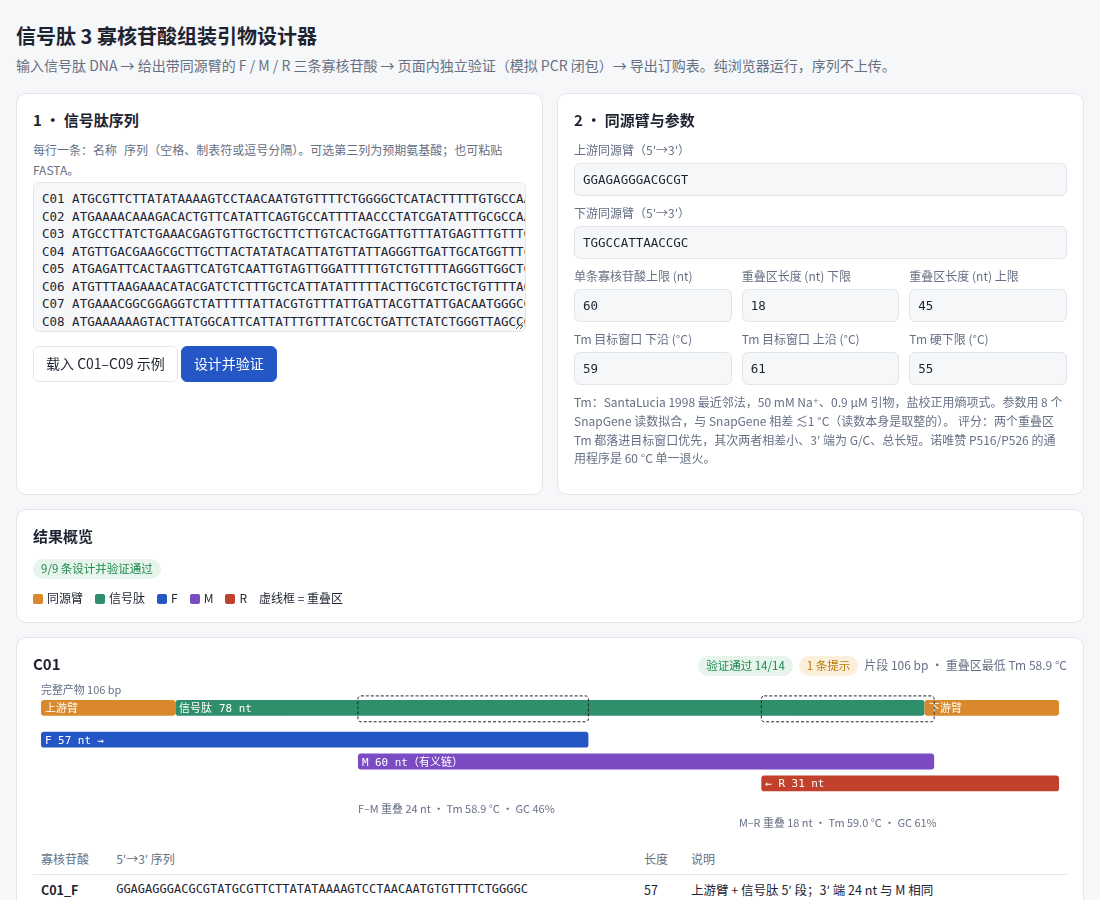
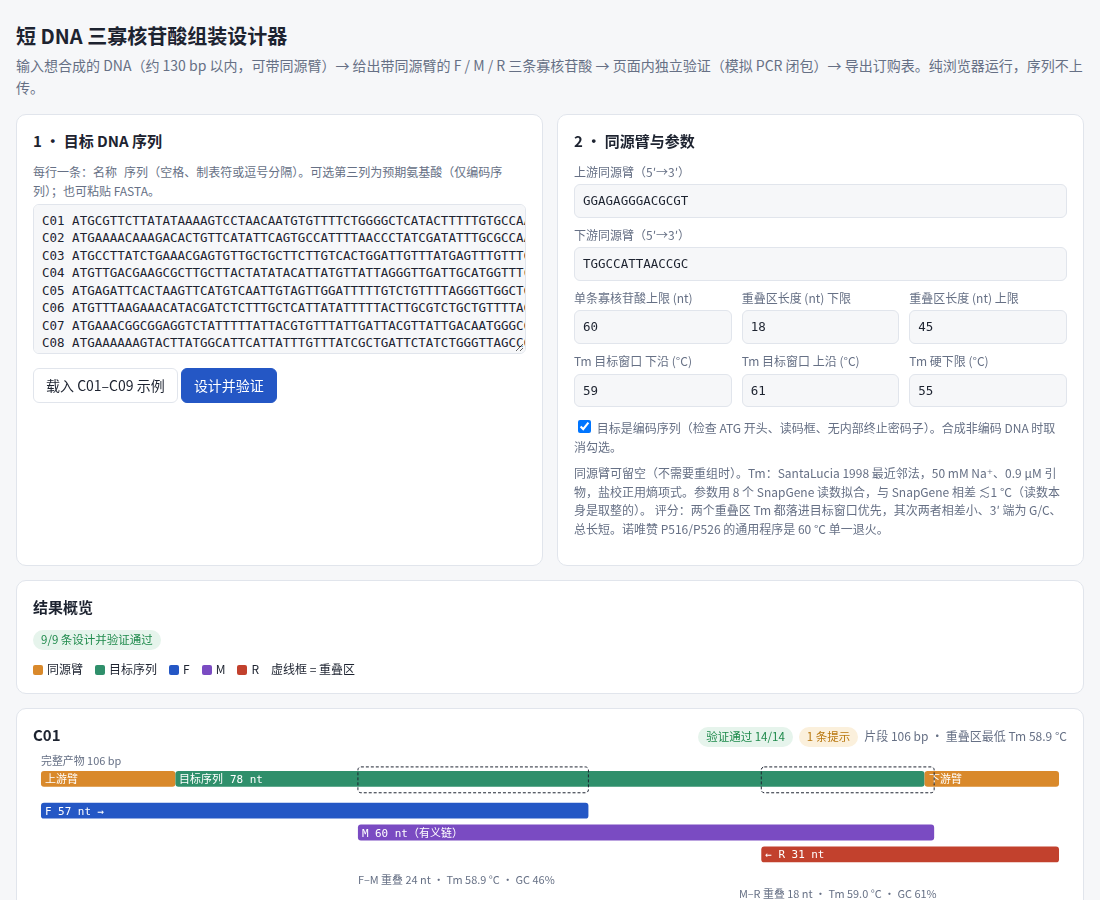
General short-DNA mode, README rewrite, assembly diagram
- optional coding-sequence checks; homology arms may be empty
- 9 new tests (random non-coding DNA 60-130 bp, mutation tests)
- README rewritten around the goal; SVG diagram; live Pages link

diff --git a/index.html b/index.html
@@ -3,7 +3,7 @@
 <head>
 <meta charset="UTF-8">
 <meta name="viewport" content="width=device-width,initial-scale=1">
-<title>信号肽 3 寡核苷酸组装引物设计器</title>
+<title>短 DNA 三寡核苷酸组装设计器</title>
 <style>
 :root{--bg:#f6f7f9;--card:#fff;--ink:#1d2330;--muted:#667085;--line:#e1e5ec;--acc:#2457c5;
 --arm:#d9892b;--sp:#2f8f6b;--F:#2457c5;--M:#7a4bc2;--R:#c2412d;--ok:#1f8a4c;--warn:#b9770e;--bad:#c2312d;--okbg:#e6f4ec;--warnbg:#fbf0dc;--badbg:#fbe4e2}
@@ -48,13 +48,13 @@ pre{background:var(--bg);border:1px solid var(--line);border-radius:6px;padding:
 </head>
 <body>
 <div class="wrap">
-<h1>信号肽 3 寡核苷酸组装引物设计器</h1>
-<p class="sub">输入信号肽 DNA → 给出带同源臂的 F / M / R 三条寡核苷酸 → 页面内独立验证（模拟 PCR 闭包）→ 导出订购表。纯浏览器运行，序列不上传。</p>
+<h1>短 DNA 三寡核苷酸组装设计器</h1>
+<p class="sub">输入想合成的 DNA（约 130 bp 以内，可带同源臂）→ 给出带同源臂的 F / M / R 三条寡核苷酸 → 页面内独立验证（模拟 PCR 闭包）→ 导出订购表。纯浏览器运行，序列不上传。</p>
 
 <div class="grid">
 <div class="card">
-  <h2>1 · 信号肽序列</h2>
-  <label>每行一条：<span class="mono">名称 序列</span>（空格、制表符或逗号分隔）。可选第三列为预期氨基酸；也可粘贴 FASTA。</label>
+  <h2>1 · 目标 DNA 序列</h2>
+  <label>每行一条：<span class="mono">名称 序列</span>（空格、制表符或逗号分隔）。可选第三列为预期氨基酸（仅编码序列）；也可粘贴 FASTA。</label>
   <textarea id="input" spellcheck="false" wrap="off"></textarea>
   <div style="margin-top:8px"><button onclick="loadExample()">载入 C01–C09 示例</button> <button class="primary" onclick="run()">设计并验证</button></div>
 </div>
@@ -72,7 +72,8 @@ pre{background:var(--bg);border:1px solid var(--line);border-radius:6px;padding:
     <div><label>Tm 目标窗口 上沿 (°C)</label><input type="number" id="tmHigh" value="61" step="0.5"></div>
     <div><label>Tm 硬下限 (°C)</label><input type="number" id="tmFloor" value="55" step="0.5"></div>
   </div>
-  <p class="note" style="margin-top:8px">Tm：SantaLucia 1998 最近邻法，50 mM Na⁺、0.9 µM 引物，盐校正用熵项式。参数用 8 个 SnapGene 读数拟合，与 SnapGene 相差 ≲1 °C（读数本身是取整的）。
+  <label style="margin-top:10px"><input type="checkbox" id="orf" checked> 目标是编码序列（检查 ATG 开头、读码框、无内部终止密码子）。合成非编码 DNA 时取消勾选。</label>
+  <p class="note" style="margin-top:8px">同源臂可留空（不需要重组时）。Tm：SantaLucia 1998 最近邻法，50 mM Na⁺、0.9 µM 引物，盐校正用熵项式。参数用 8 个 SnapGene 读数拟合，与 SnapGene 相差 ≲1 °C（读数本身是取整的）。
   评分：两个重叠区 Tm 都落进目标窗口优先，其次两者相差小、3′ 端为 G/C、总长短。诺唯赞 P516/P526 的通用程序是 60 °C 单一退火。</p>
 </div>
 </div>
@@ -176,14 +177,17 @@ function verify(spec){
   const off=[...pool].filter(s=>!T.includes(s)&&!rT.includes(s));
   add('offtarget',off.length===0,off.length?`出现 ${off.length} 条不属于目标产物的链（疑似错配引发）`:'所有中间产物都是目标产物的子序列，无错配产物');
   add('arms',T.startsWith(up)&&T.endsWith(down),'产物首尾分别是上游臂与下游臂');
-  add('spmid',T.slice(up.length,T.length-down.length)===sp,'两臂之间的序列与输入的信号肽 DNA 完全一致');
+  add('spmid',T.slice(up.length,T.length-down.length)===sp,'两臂之间的序列与输入的目标 DNA 完全一致');
   add('startF',F===T.slice(0,F.length),'F 是产物上链的前缀');
   add('startR',R===rT.slice(0,R.length),'R 是产物下链的前缀');
-  const aa=translate(sp);
-  add('atg',sp.startsWith('ATG'),'信号肽以 ATG 开头');
-  add('frame',sp.length%3===0,`信号肽长度 ${sp.length} nt 是 3 的倍数`);
-  add('stop',!aa.slice(0,-1).includes('*')&&!aa.includes('?'),'没有内部终止密码子');
-  if(spec.expectedAA)add('aa',aa===spec.expectedAA,`翻译结果与预期氨基酸${aa===spec.expectedAA?'一致':'不一致：'+aa+' ≠ '+spec.expectedAA}`);
+  let aa=null;
+  if(spec.orf!==false){                                  // 编码序列检查；合成非编码 DNA 时关闭
+    aa=translate(sp);
+    add('atg',sp.startsWith('ATG'),'序列以 ATG 开头');
+    add('frame',sp.length%3===0,`序列长度 ${sp.length} nt 是 3 的倍数`);
+    add('stop',!aa.slice(0,-1).includes('*')&&!aa.includes('?'),'没有内部终止密码子');
+    if(spec.expectedAA)add('aa',aa===spec.expectedAA,`翻译结果与预期氨基酸${aa===spec.expectedAA?'一致':'不一致：'+aa+' ≠ '+spec.expectedAA}`);
+  }
   return {ok:checks.every(c=>c.ok),checks,T,aa,pool:[...pool]};
 }
 function adviceFor(d){
@@ -198,7 +202,7 @@ function adviceFor(d){
   if(!/[GC]$/.test(d.R))w.push('R 的 3′ 末端不是 G/C。');
   // F 与 R 3′ 端互补 ≥3 nt
   if(rc(d.F.slice(-3))===d.R.slice(-3))w.push('F 与 R 的 3′ 末端 3 nt 互补，可能形成引物二聚体。');
-  if([d.F,d.M,d.R].some(o=>/(.)\1{5,}/.test(o)))w.push('含 ≥6 个连续相同碱基（来自 SP 本身的序列，合成和退火时留意）。');
+  if([d.F,d.M,d.R].some(o=>/(.)\1{5,}/.test(o)))w.push('含 ≥6 个连续相同碱基（来自序列本身，合成和退火时留意）。');
   return w;
 }
 
@@ -218,18 +222,18 @@ function parseInput(txt){
   const items=[];let fasta=null;
   for(const raw of txt.split(/\r?\n/)){
     const line=raw.trim();if(!line)continue;
-    if(line[0]==='>'){fasta={name:line.slice(1).trim().split(/\s+/)[0]||('SP'+(items.length+1)),seq:''};items.push(fasta);continue}
+    if(line[0]==='>'){fasta={name:line.slice(1).trim().split(/\s+/)[0]||('seq'+(items.length+1)),seq:''};items.push(fasta);continue}
     if(fasta&&/^[ACGTacgt\s]+$/.test(line)){fasta.seq+=line.replace(/\s/g,'').toUpperCase();continue}
     fasta=null;
     const p=line.split(/[\s,;\t]+/).filter(Boolean);
-    if(p.length===1)items.push({name:'SP'+(items.length+1),seq:p[0].toUpperCase()});
+    if(p.length===1)items.push({name:'seq'+(items.length+1),seq:p[0].toUpperCase()});
     else items.push({name:p[0],seq:p[1].toUpperCase(),aa:p[2]?p[2].toUpperCase():undefined});
   }
   return items;
 }
 function cfgFromUI(){
   return {up:$('up').value.trim().toUpperCase(),down:$('down').value.trim().toUpperCase(),
-    maxLen:+$('maxLen').value,minOv:+$('minOv').value,maxOv:+$('maxOv').value,tmFloor:+$('tmFloor').value,tmLow:+$('tmLow').value,tmHigh:+$('tmHigh').value};
+    maxLen:+$('maxLen').value,minOv:+$('minOv').value,maxOv:+$('maxOv').value,tmFloor:+$('tmFloor').value,tmLow:+$('tmLow').value,tmHigh:+$('tmHigh').value,orf:$('orf').checked};
 }
 const esc=s=>String(s).replace(/[&<>]/g,c=>({'&':'&amp;','<':'&lt;','>':'&gt;'}[c]));
 function mapSVG(d){
@@ -238,7 +242,7 @@ function mapSVG(d){
   const up=d.cfg.up.length,dn=d.cfg.down.length,spE=L-dn;
   let s=`<svg viewBox="0 0 ${W} ${H}" width="100%" role="img" aria-label="${esc(d.name)} 组装示意">`;
   s+=`<text class="lbl" x="${pad}" y="12">完整产物 ${L} bp</text>`;
-  s+=bar(0,up,18,'var(--arm)','上游臂')+bar(up,spE,18,'var(--sp)','信号肽 '+d.sp.length+' nt')+bar(spE,L,18,'var(--arm)','下游臂');
+  s+=bar(0,up,18,'var(--arm)','上游臂')+bar(up,spE,18,'var(--sp)','目标序列 '+d.sp.length+' nt')+bar(spE,L,18,'var(--arm)','下游臂');
   // 重叠区高亮
   s+=`<rect x="${x(d.ovF.a)}" y="14" width="${(d.ovF.b-d.ovF.a)*sc}" height="26" fill="none" stroke="var(--ink)" stroke-dasharray="3 2" rx="3"/>`;
   s+=`<rect x="${x(d.ovR.a)}" y="14" width="${(d.ovR.b-d.ovR.a)*sc}" height="26" fill="none" stroke="var(--ink)" stroke-dasharray="3 2" rx="3"/>`;
@@ -261,17 +265,17 @@ function render(results){
     html+=`<div class="card"><div class="sp-head"><b>${esc(r.name)}</b><span>${badge}<span class="badge ${tier}">${adv.length?adv.length+' 条提示':'无提示'}</span><span class="note">片段 ${r.full.length} bp · 重叠区最低 Tm ${mt.toFixed(1)} °C</span></span></div>`;
     html+=mapSVG(r);
     html+=`<table style="margin-top:8px"><tr><th>寡核苷酸</th><th>5′→3′ 序列</th><th>长度</th><th>说明</th></tr>
-      <tr><td><b>${esc(r.name)}_F</b></td><td class="seq">${esc(r.F)}</td><td>${r.F.length}</td><td>上游臂 + 信号肽 5′ 段；3′ 端 ${r.ovF.b-r.ovF.a} nt 与 M 相同</td></tr>
+      <tr><td><b>${esc(r.name)}_F</b></td><td class="seq">${esc(r.F)}</td><td>${r.F.length}</td><td>上游臂 + 序列 5′ 段；3′ 端 ${r.ovF.b-r.ovF.a} nt 与 M 相同</td></tr>
       <tr><td><b>${esc(r.name)}_M</b></td><td class="seq">${esc(r.M)}</td><td>${r.M.length}</td><td>中间模板（有义链），低浓度加入</td></tr>
-      <tr><td><b>${esc(r.name)}_R</b></td><td class="seq">${esc(r.R)}</td><td>${r.R.length}</td><td>下游臂 + 信号肽 3′ 段（反向互补）；3′ 端 ${r.ovR.b-r.ovR.a} nt 与 M 互补</td></tr></table>`;
+      <tr><td><b>${esc(r.name)}_R</b></td><td class="seq">${esc(r.R)}</td><td>${r.R.length}</td><td>下游臂 + 序列 3′ 段（反向互补）；3′ 端 ${r.ovR.b-r.ovR.a} nt 与 M 互补</td></tr></table>`;
     html+=`<details style="margin-top:6px"><summary>验证明细（${v.checks.length} 项）</summary><ul class="chk">${v.checks.map(c=>`<li class="${c.ok?'ok':'bad'}">${c.ok?'✓':'✗'} ${esc(c.msg)}</li>`).join('')}</ul>
-      <div class="note" style="margin-top:4px">翻译：<span class="mono">${esc(v.aa)}</span></div></details>`;
+      ${v.aa!==null?`<div class="note" style="margin-top:4px">翻译：<span class="mono">${esc(v.aa)}</span></div>`:''}</details>`;
     if(adv.length)html+=`<ul class="warns">${adv.map(w=>`<li>${esc(w)}</li>`).join('')}</ul>`;
     html+='</div>';
     for(const [suf,seq,role] of [['F',r.F,'正向引物（含上游臂）'],['M',r.M,'中间模板'],['R',r.R,'反向引物（含下游臂）']])orderRows.push([r.name+'_'+suf,seq,seq.length,role]);
   }
   const head=`<div class="card"><h2>结果概览</h2><span class="badge ${nOk===results.length?'b-ok':'b-bad'}">${nOk}/${results.length} 条设计并验证通过</span>
-    <div class="legend" style="margin-top:8px"><span><i style="background:var(--arm)"></i>同源臂</span><span><i style="background:var(--sp)"></i>信号肽</span><span><i style="background:var(--F)"></i>F</span><span><i style="background:var(--M)"></i>M</span><span><i style="background:var(--R)"></i>R</span><span>虚线框 = 重叠区</span></div></div>`;
+    <div class="legend" style="margin-top:8px"><span><i style="background:var(--arm)"></i>同源臂</span><span><i style="background:var(--sp)"></i>目标序列</span><span><i style="background:var(--F)"></i>F</span><span><i style="background:var(--M)"></i>M</span><span><i style="background:var(--R)"></i>R</span><span>虚线框 = 重叠区</span></div></div>`;
   let order='';
   if(orderRows.length){
     order=`<div class="card"><h2>订购表（${orderRows.length} 条）</h2>
@@ -280,11 +284,12 @@ function render(results){
     <p class="note">纯化方式按公司规格选择（均 ≤${results.find(r=>r.ok).cfg.maxLen} nt）。下单前请再用“验证明细”核对一遍序列。</p></div>`;
     window.__order=orderRows;
   }
+  const lens=results.filter(r=>r.ok).map(r=>r.full.length),prodRange=lens.length?(Math.min(...lens)===Math.max(...lens)?lens[0]:Math.min(...lens)+'–'+Math.max(...lens)):'—';
   const pcr=`<div class="card"><h2>PCR 起始方案（诺唯赞 P526 = 2× Phanta UniFi Master Mix, Dye Plus）</h2>
   <p class="note">依据 P516（同一预混液的无染料版）说明书 V24.1 的通用程序；我没有读到 P526 自己的说明书，请与你手里的说明书核对。M 的用量和循环数是我按三寡核苷酸组装的原理给的起点，未经实验验证。</p>
   <table><tr><th>体系（50 µl）</th><th>程序（单一退火温度）</th></tr><tr><td class="mono" style="font-size:12px">2× Master Mix 25 µl<br>F（10 µM）2 µl → 终浓度 0.4 µM<br>R（10 µM）2 µl → 终浓度 0.4 µM<br>M（先稀释到 1 µM）1 µl → 终浓度 0.02 µM<br>无模板 DNA；ddH₂O 补至 50 µl</td>
   <td class="mono" style="font-size:12px">98 °C 30 s<br>98 °C 10 s → <b>60 °C 10 s</b> → 72 °C 5 s（产物约 100 bp，15 s/kb 折算不足 2 s，取 5 s），25–35 个循环<br>72 °C 5 min</td></tr></table>
-  <p class="note">厂家规则：正反向引物 Tm 均 &gt;50 °C（厂家用 Primer Premier 5 算）时退火 60 °C；本设计让两个重叠区在 SnapGene 口径下落进目标窗口。产物约 103–115 bp，纯化时选适合小片段的方法，并用 2–3% 琼脂糖胶或 PAGE 区分产物与约 60 bp 的 M。</p></div>`;
+  <p class="note">厂家规则：正反向引物 Tm 均 &gt;50 °C（厂家用 Primer Premier 5 算）时退火 60 °C；本设计让两个重叠区在 SnapGene 口径下落进目标窗口。产物 ${prodRange} bp，纯化时选适合小片段的方法，并用 2–3% 琼脂糖胶或 PAGE 区分产物与约 60 bp 的 M。</p></div>`;
   $('out').innerHTML=head+html+order+pcr;
 }
 function run(){
@@ -293,7 +298,7 @@ function run(){
   for(const it of items){
     if(!/^[ACGT]+$/.test(it.seq)){res.push({name:it.name,ok:false,error:'序列含 A/C/G/T 以外的字符。'});continue}
     const d=design(it.name,it.seq,cfg);
-    if(d.ok){d.v=verify({up:cfg.up,down:cfg.down,sp:it.seq,F:d.F,M:d.M,R:d.R,maxLen:cfg.maxLen,expectedAA:it.aa});d.adv=adviceFor(d)}
+    if(d.ok){d.v=verify({up:cfg.up,down:cfg.down,sp:it.seq,F:d.F,M:d.M,R:d.R,maxLen:cfg.maxLen,expectedAA:it.aa,orf:cfg.orf});d.adv=adviceFor(d)}
     res.push(d);
   }
   render(res);window.__results=res;
@@ -302,7 +307,7 @@ function orderTSV(){return window.__order.map(r=>r.slice(0,3).join('\t')).join('
 function copyOrder(){navigator.clipboard.writeText(orderTSV()).catch(()=>{})}
 function downloadOrder(){
   const csv='name,sequence_5to3,length,role\n'+window.__order.map(r=>r.map(x=>/[,"]/.test(x)?'"'+String(x).replace(/"/g,'""')+'"':x).join(',')).join('\n')+'\n';
-  const a=document.createElement('a');a.href=URL.createObjectURL(new Blob([csv],{type:'text/csv'}));a.download='sp_oligo_order.csv';a.click();
+  const a=document.createElement('a');a.href=URL.createObjectURL(new Blob([csv],{type:'text/csv'}));a.download='oligo_order.csv';a.click();
 }
 window.SPDesigner={design,verify,closure,tm,rc,translate,parseInput,DEFAULTS};
 $('input').value=EXAMPLE;run();

diff --git a/tests/test_design.py b/tests/test_design.py
@@ -142,3 +142,43 @@ def test_bad_sp_inputs_caught(page):
 def test_infeasible_reports_clear_error(page):
     d = js_design(page, "long", row_sp := ("ATG" + "GCT"*120))
     assert d["ok"] is False and "找不到可行" in d["error"]
+
+# ---------- 通用 DNA 模式（非编码序列，可不带同源臂） ----------
+def _rand_dna(n, seed):
+    import random
+    r = random.Random(seed)
+    return "".join(r.choice("ACGT") for _ in range(n))
+
+@pytest.mark.parametrize("total", [60, 90, 120, 130])
+@pytest.mark.parametrize("arms", [("", ""), (UP, DOWN)], ids=["no-arms", "arms"])
+def test_general_dna_mode(page, total, arms):
+    """total = 完整产物（含同源臂）长度。"""
+    up, down = arms
+    n = total - len(up) - len(down)
+    for seed in range(8):
+        s = _rand_dna(n, seed * 1000 + total)
+        d = js_design(page, "g", s, {"up": up, "down": down, "orf": False})
+        assert d["ok"], (total, seed, d.get("error"))
+        F, M, R = d["F"], d["M"], d["R"]
+        v = js_verify(page, up=up, down=down, sp=s, F=F, M=M, R=R, orf=False)
+        assert v["ok"], [c for c in v["checks"] if not c["ok"]]
+        assert py_ok(F, M, R, s, up, down)
+        assert v["aa"] is None                                     # 不做翻译
+        fr = d["ovF"]["b"] - d["ovR"]["a"]                         # F、R 直接重叠的长度（短片段常见）
+        for label, (f, m, r) in mutate_cases(F, M, R, d).items():  # 变异测试：关掉 ORF 检查后验证器仍要拦下
+            vv = js_verify(page, up=up, down=down, sp=s, F=f, M=m, R=r, orf=False)
+            if fr >= 12 and ("截短" in label or "漏掉 M" in label):
+                # F、R 自己就能互相引发，M 只是多余的：这些变体物理上仍能组装出产物，是合法设计，
+                # 不是验证器漏报。这里只要求两个验证器结论一致。
+                assert vv["ok"] == py_ok(f, m, r, s, up, down), f"两个验证器分歧：{total} {seed} {label}"
+                continue
+            assert not vv["ok"], f"JS 没拦住：{total} {seed} {label}"
+            assert not py_ok(f, m, r, s, up, down), f"Python 没拦住：{total} {seed} {label}"
+
+def test_orf_checks_default_on_and_switchable(page):
+    s = _rand_dna(100, 5)                       # 随机序列几乎肯定不以 ATG 开头
+    assert not s.startswith("ATG")
+    d = js_design(page, "g", s, {"up": "", "down": ""})
+    on = js_verify(page, up="", down="", sp=s, F=d["F"], M=d["M"], R=d["R"])           # 默认：检查 ORF
+    off = js_verify(page, up="", down="", sp=s, F=d["F"], M=d["M"], R=d["R"], orf=False)
+    assert not on["ok"] and off["ok"]

diff --git a/README.md b/README.md
@@ -1,53 +1,60 @@
-# sp-oligo-designer
+# Short-DNA oligo assembler
 
-**Signal-peptide DNA → three ≤60-nt oligos (F / M / R) with homology arms → in-page verification → order sheet.**
-**信号肽 DNA → 带同源臂的 3 条 ≤60 nt 寡核苷酸（F / M / R）→ 页面内独立验证 → 订购表。**
+**Need a short piece of DNA (up to ~130 bp) and don't want to pay gene-synthesis prices? Order three ordinary oligos instead, and let one PCR join them.**
+**想合成一段较短的 DNA（约 130 bp 以内），又不想付基因合成的价格？订 3 条普通寡核苷酸，一次 PCR 拼起来。**
 
-A single static page (`index.html`, no build step, no server, nothing is uploaded). Open it in a browser, paste signal-peptide (SP) sequences, and get oligos you can order directly. The UI is in Chinese.
-单文件网页，浏览器直接打开，序列不会上传。界面为中文。
+This tool designs the three oligos for you, **checks its own answer** with an independent PCR simulation, and exports an order sheet.
+It is one static web page: no install, no server, **your sequences never leave your browser**.
 
-![screenshot](docs/screenshot.png)
+> **[▶ Open the tool](https://qmmyz.github.io/oligo-assembly-designer/)** · or download `index.html` and open it locally.
+> The interface is in Chinese; this README explains everything you need (English UI: not yet).
 
-## Why three oligos / 为什么是 3 条
+![The tool, designing nine signal peptides](docs/screenshot.png)
 
-A signal peptide plus two 14-nt homology arms is ~100–115 bp. Two primers of ≤60 nt can overlap by only 5–17 nt, which is too short for a 60 °C anneal. Adding a middle oligo **M** gives two independent overlaps of 18–45 nt:
+## What it is good for
 
-```
- upstream arm   signal peptide (SP)                  downstream arm
- |-----------|=================================|--------------|   full product (top strand)
- F  →→→→→→→→→→→→→→→→→→
-                 M  →→→→→→→→→→→→→→→→→→→→→→→→→→→
-                                         ←←←←←←←←←←←←←←←←←←  R
-        F∩M overlap ┘                  └ M∩R overlap
-```
+Short, defined sequences that gene-synthesis services charge a lot for: signal peptides, linkers and tags, short promoters/RBS/terminators, and similar. Oligos are priced per nucleotide; a 106-bp fragment needs three oligos of about 150 nt in total (compare your own vendor's prices).
 
-- **F** = upstream arm + SP 5′ part. **M** = middle of the sense strand (no arms). **R** = reverse complement of the SP 3′ part, with the downstream arm at its 5′ end.
-- PCR: F and R at ~0.4 µM, M at ~0.02 µM, no template, **one** annealing temperature (60 °C).
+It was built for cloning nine signal peptides with homology arms (recombination cloning), but the arms are optional, so it works for any short DNA.
 
-## Usage / 使用
+## How it works
 
-1. Open `index.html` in a browser (it loads a 9-SP example and designs it on load).
-2. Paste one SP per line: `name  DNA` (optionally a third column with the expected amino acids), or a FASTA.
-3. Set the homology arms and limits if needed (defaults: 14-nt arms, ≤60 nt, overlap 18–45 nt, overlap Tm window 59–61 °C).
-4. **Design and verify** → check each design's map, warnings and PCR-program card → copy the oligos.
+![F, M and R overlap to build the fragment](docs/assembly.svg)
 
-The page also exposes `window.SPDesigner = {design, verify, tm, …}` for scripting.
+Two primers of ≤60 nt can only overlap by a few bases on a ~100 bp fragment, which is too short for a 60 °C anneal. A third oligo **M** in the middle gives two overlaps of 18–45 nt instead. For a **single PCR with one annealing temperature (59–61 °C)** the tool picks overlaps whose Tm falls in that window, keeps every oligo ≤60 nt, and prefers G/C at 3′ ends and no primer-dimer-prone ends.
 
-## Verification / 验证
+- **F** = (upstream arm +) 5′ part of your sequence · **M** = middle, sense strand · **R** = reverse complement of the 3′ part (+ downstream arm).
+- PCR: F and R at ~0.4 µM, M at ~0.02 µM, no template; the page shows a starting program for Vazyme P526 / Phanta UniFi.
 
-`verify()` looks only at the final three oligos: it simulates PCR as a closure (a 3′ end of ≥12 nt that pairs to another strand is extended to the template's 5′ end), then asserts that
+## Quick start
 
-- the pool assembles `upstream arm + SP + downstream arm` and its reverse complement,
-- every strand in the pool is a piece of that product (no off-target strands),
-- arms, ATG start, reading frame, no internal stop and the expected amino acids are right.
+1. Open the page. It loads a 9-sequence example and designs it immediately.
+2. Replace the text with your sequences, one per line: `name  DNA` (or paste FASTA).
+3. **Homology arms:** put yours in the two arm boxes, or clear both if you just need the bare DNA. If your sequence is a protein-coding gene keep *coding sequence* ticked (checks ATG, reading frame, internal stops); untick it for non-coding DNA.
+4. Click **设计并验证** (design and verify). Each design shows a map, the three oligos, warnings, and 验证明细 (the check list). **下载 CSV / 复制** gives the order sheet.
 
-`tests/test_design.py` re-implements Tm and the closure independently in Python and runs **mutation tests** (substituted/deleted bases, swapped F/R, broken overlaps, wrong arms) to confirm the verifier rejects bad oligos.
+Typical limit: product (including arms) up to about **130 bp** works reliably; at 140 bp only some sequences have a solution (random-sequence test: 30/30 designs up to 130 bp, 9/30 at 140 bp). Longer needs a different strategy.
 
-## Tm model / Tm 算法
+## How the answer is checked
 
-SantaLucia 1998 nearest-neighbour with the entropy-term salt correction `ΔS += 0.368·(N−1)·ln[Na⁺]`, 50 mM Na⁺, 0.9 µM oligo. The salt/concentration parameters were **fitted to 8 SnapGene readings** (all within ±0.9 °C); they are not SnapGene's published parameters. Details and caveats: [docs/design-notes.md](docs/design-notes.md).
+The checker looks only at the final three oligos, simulates PCR (any 3′ end of ≥12 nt that pairs with another strand is extended), and requires that:
 
-## Tests
+- the full product and its complement are formed, and **nothing else** is (no mispriming products among the three oligos);
+- the product is exactly *arm + your sequence + arm*, and F/R start the right strands;
+- for coding sequences: ATG start, frame, no internal stop, expected amino acids.
+
+`tests/` contains 31 tests: an independent Python re-implementation of the Tm and PCR simulation, plus **mutation tests** (substituted/deleted bases, swapped F/R, broken overlaps, wrong arms) that confirm the checker rejects bad oligos, for the signal-peptide set and for random non-coding DNA of 60–130 bp.
+
+## Please read: what this does not do
+
+- **In-silico only.** The design has not been wet-lab tested yet. The single 60 °C anneal, the M amount and the cycle number are principled starting points, not validated protocol.
+- **Sequence-verify your clone.** Oligos are synthesized with errors; PCR assembly has no proofreading step for them. Clone the product and sequence it before you rely on it.
+- **No vector checks.** Reading frame across the vector junction and primer mispriming on the vector are not checked.
+- **Tm is an empirical fit.** It is SantaLucia-1998 nearest-neighbour with parameters fitted to 8 SnapGene readings (all within ±0.9 °C); it is not SnapGene's published algorithm, and the polymerase vendor's own Tm scale was not reconciled. Details: [docs/design-notes.md](docs/design-notes.md).
+
+## For developers
+
+`window.SPDesigner = {design, verify, tm, …}` is exposed for scripting. Tests open `index.html` in headless Chromium:
 
 ```bash
 pip install -r requirements-dev.txt
@@ -55,22 +62,8 @@ playwright install chromium
 python -m pytest -q tests
 ```
 
-The tests open `index.html` in headless Chromium.
+`data/` holds the nine signal-peptide sequences used as golden test input (and as the page's example); provenance and hashes are in `data/MANIFEST.md`.
 
-## Limitations / 未覆盖
+## Attribution and license
 
-- No vector sequence: the vector reading frame and primer mispriming sites on the vector are **not** checked.
-- The Tm model is calibrated on only 8 SnapGene readings; the polymerase vendor's own Tm scale (Primer Premier) was not reconciled.
-- No wet-lab validation yet of the M amount, cycle number, or single 60 °C annealing for 18–39 nt overlaps.
-
-## Data
-
-`data/golden_sp.csv` holds the 9 signal-peptide sequences used as golden test input; `data/*.fasta` are the same sequences for opening in SnapGene; provenance and hashes are in `data/MANIFEST.md`.
-
-## Method attribution
-
-SantaLucia, J. (1998) *PNAS* 95:1460–1465 (nearest-neighbour parameters). The 60 °C single-anneal rule follows the Vazyme Phanta UniFi master-mix manual (P516/P526 family).
-
-## License
-
-MIT — see [LICENSE](LICENSE).
+Nearest-neighbour parameters: SantaLucia, J. (1998) *PNAS* 95:1460–1465. The 60 °C single-anneal rule follows the Vazyme Phanta UniFi master-mix manual (P516/P526 family). MIT licensed, see [LICENSE](LICENSE).

diff --git a/docs/design-notes.md b/docs/design-notes.md
@@ -1,12 +1,14 @@
 # 设计笔记 Design notes
 
+> 注：笔记写于“信号肽”阶段，文中的“SP”泛指目标序列；通用 DNA 模式（可无同源臂、可关闭编码序列检查）见主 README。
+
 > 中文详细笔记；项目概览见上级目录的 [README.md](../README.md)。
 
 信号肽 DNA → 带同源臂的 3 条寡核苷酸（F / M / R）→ 独立验证 → 订购表。单文件网页 `index.html`，浏览器直接打开。
 
 ## 设计结构
 - `F` = 上游臂 + SP 5′ 段（≤60 nt）；`M` = 中间有义链模板（≤60 nt，不带臂）；`R` = 下游臂 + SP 3′ 段的反向互补（≤60 nt）。
-- F 3′ 端与 M 5′ 端序列相同，R 3′ 端与 M 3′ 端互补，F 与 R 之间不直接重叠。
+- F 3′ 端与 M 5′ 端序列相同，R 3′ 端与 M 3′ 端互补，F 与 R 之间可以直接重叠（短片段常见，对组装无害；M 仍须从 F 的 5′ 侧起、到 R 的 3′ 侧止）。
 - PCR：只设一个退火温度 60 °C（诺唯赞 P516/P526 通用程序）。M 低浓度（约 0.02 µM），无模板 DNA。
 
 ## Tm 算法（2026-11-04 校准）
